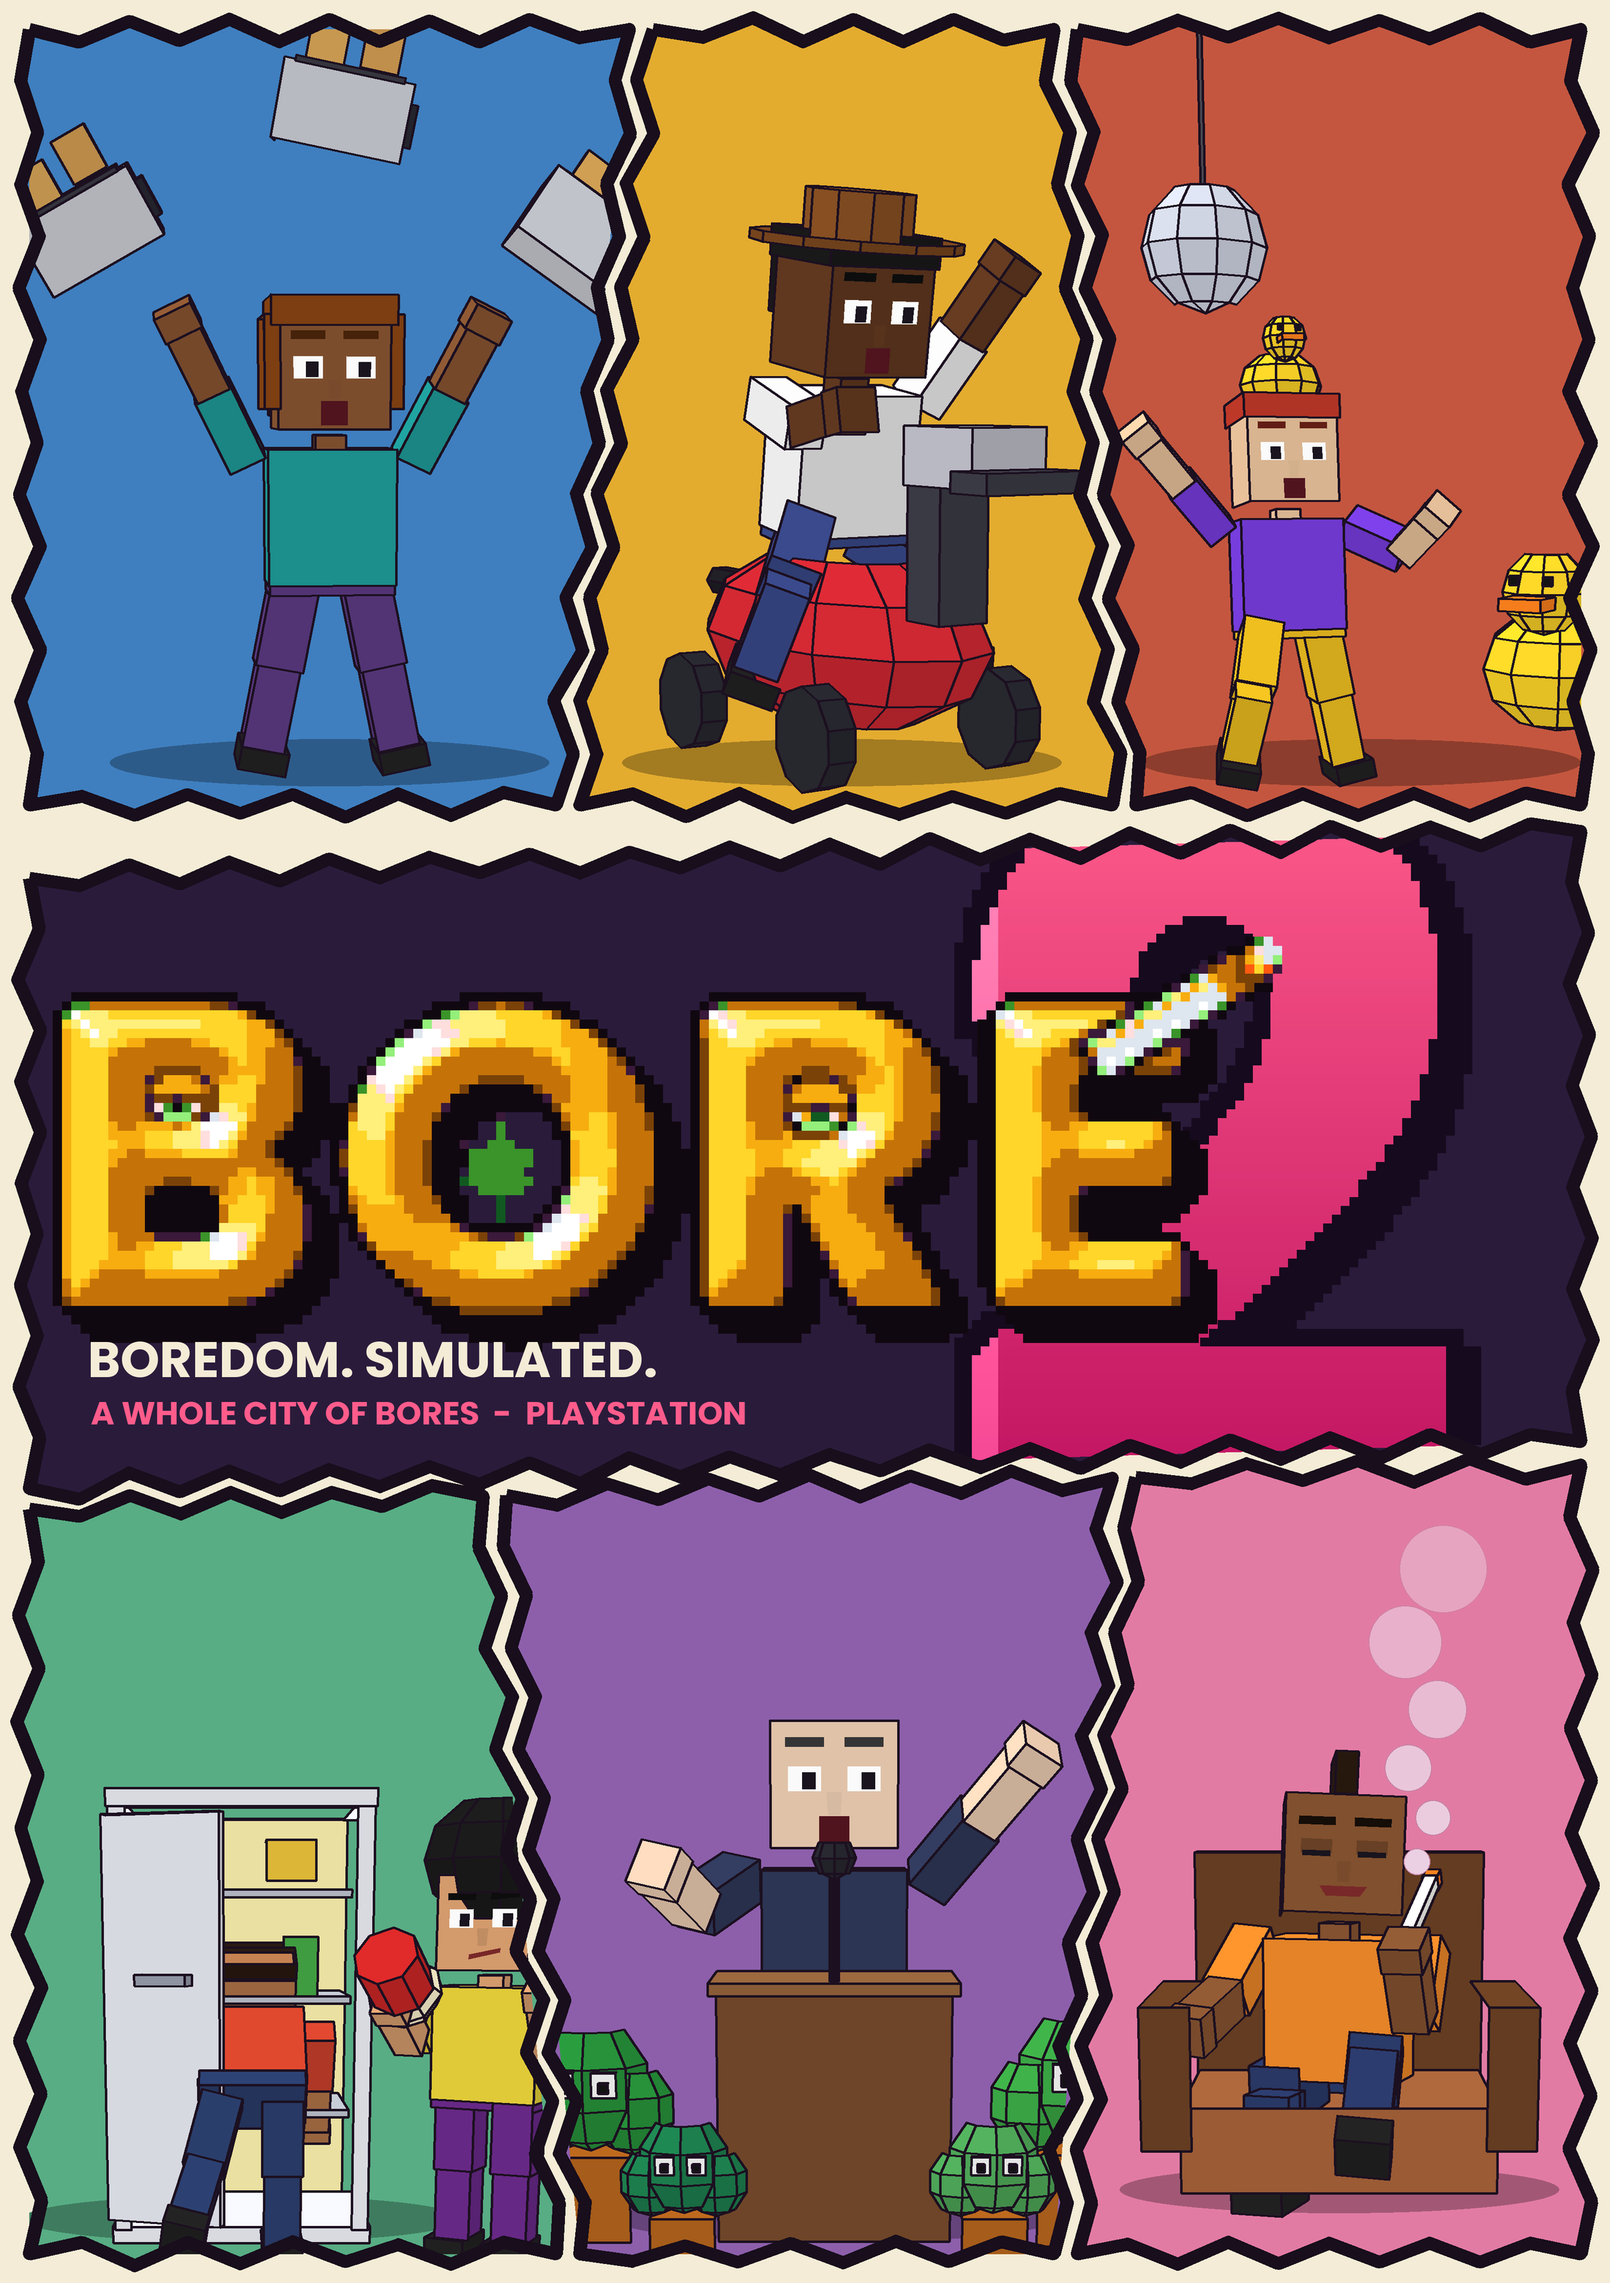
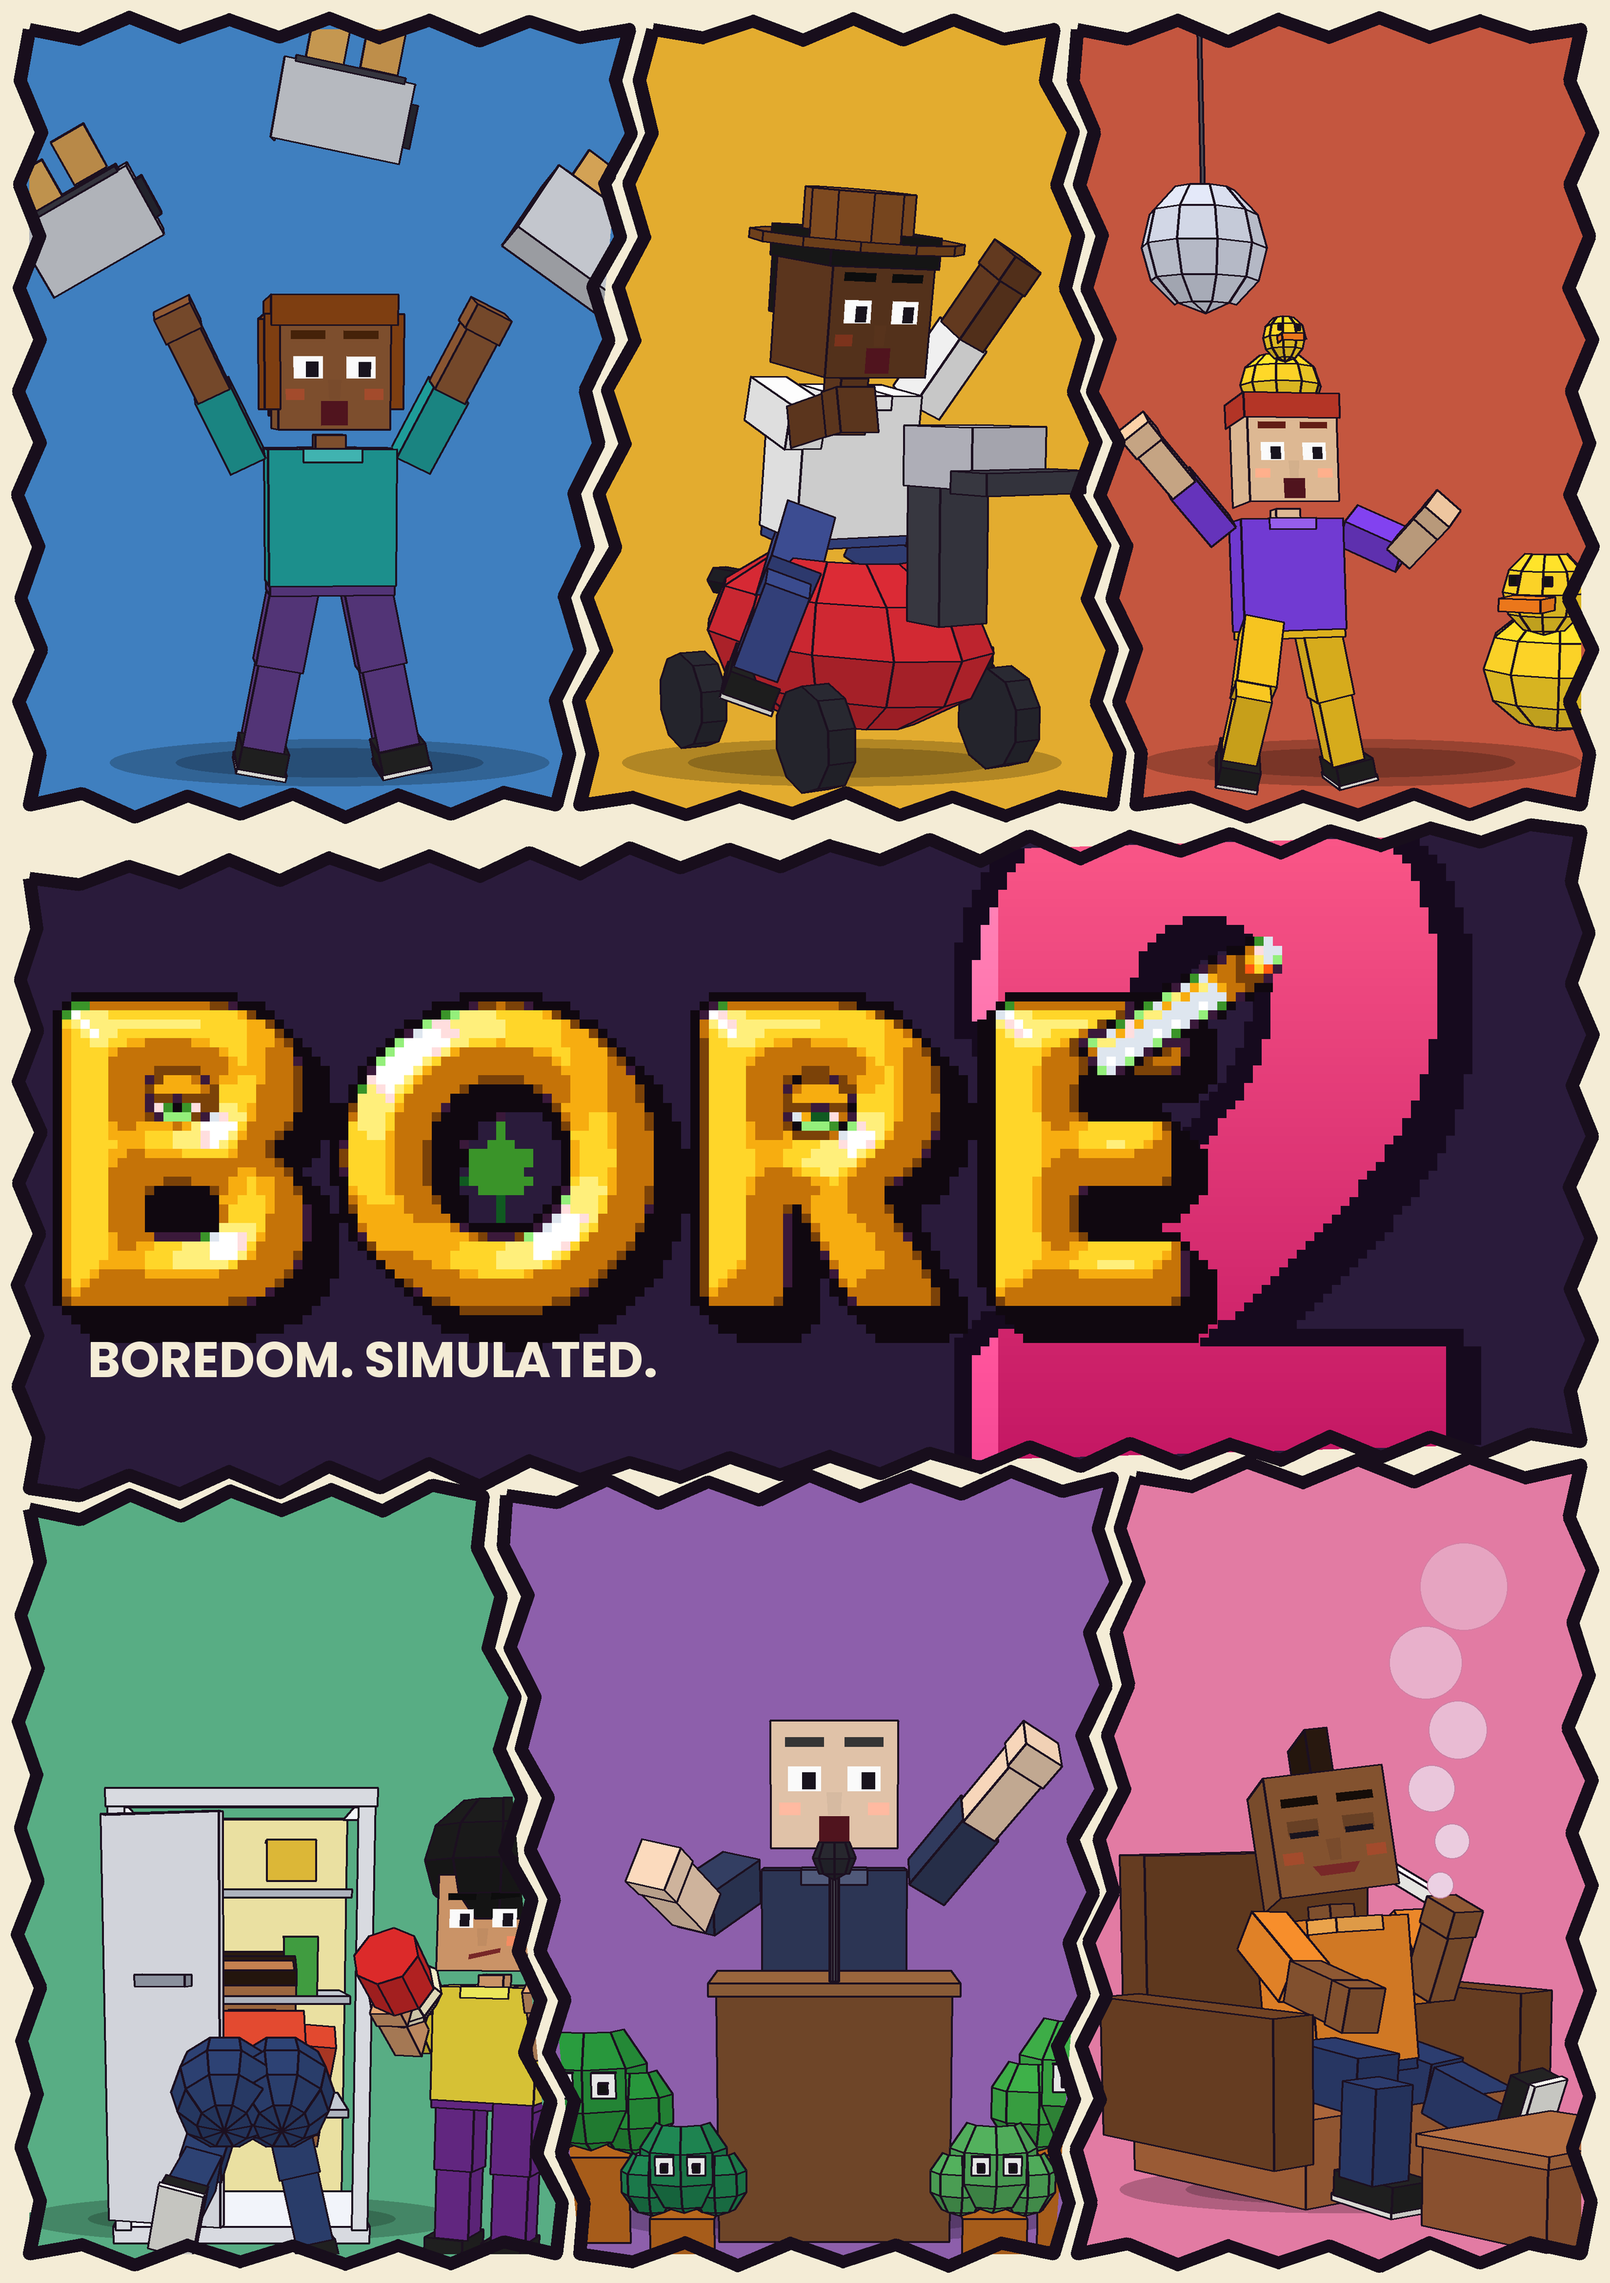
Box art: no city caption, better shading/poses, smoking pose fixed, pronounced fridge rear
Claude-Session: https://claude.ai/code/session_01HmRg38Ho1eHKsYp7LCd8R6

diff --git a/tools/boxart/scenes.py b/tools/boxart/scenes.py
@@ -43,7 +43,7 @@ def fridge():
     for yy in(1.1,2.2,3.2): sc.box((0,yy,-0.2),(2.1,0.07,1.5),(190,196,206))
     sc.box((-0.6,1.35,-0.5),(0.4,0.5,0.4),(220,60,60)); sc.box((0.6,2.5,-0.4),(0.35,0.6,0.35),(70,170,70)); sc.box((0.5,3.55,-0.5),(0.5,0.4,0.5),(240,200,60)); sc.box((-0.7,2.55,-0.5),(0.5,0.4,0.5),(90,120,220))
     sc.push(ry(1.25),(-1.25,0,0.8)); sc.box((0.0,2.0,0.55),(0.12,3.8,1.15),(226,228,236)); sc.box((-0.0,2.4,0.55),(0.2,0.1,0.5),(150,156,170)); sc.pop()
-    bore(sc,pos=(0.1,0,1.2),yaw=math.pi,skin=2,shirt='#d4452d',pants='#2b3f6e',hair='#2a1a10',style='short',face='shock',armL=(-1.5,0),armR=(-1.5,0),legR=(0.35,0.25),kneeR=0.5,lean=0.95,head=(0.3,0,0))
+    bore(sc,pos=(0.1,0,1.35),yaw=math.pi,skin=2,shirt='#d4452d',pants='#2b3f6e',hair='#2a1a10',style='short',face='shock',armL=(-1.6,0.1),armR=(-1.6,-0.1),legL=(0.15,-0.22),legR=(0.55,0.28),kneeR=0.7,lean=1.0,head=(0.3,0,0),butt=1.55)
     bucket=lambda s:(s.cyl((0,-0.1,0.2),0.3,0.5,(210,40,40),n=8),s.ell((0,0.22,0.2),(0.36,0.27,0.36),(255,246,210),nl=4,nn=8),s.box((0.12,0.42,0.22),(0.14,0.14,0.14),(255,250,225)))
     bore(sc,pos=(2.35,0,1.0),yaw=-0.5,skin=1,shirt='#e8d23a',pants='#6a2a8a',hair='#1b1b1b',style='afro',face='smirk',armL=(-0.7,0),elbL=-1.5,armR=(-0.6,0),elbR=-2.0,propL=bucket)
     return sc
@@ -62,12 +62,12 @@ def speech():
     return sc
 # ---- 6 smoking (q3)
 def smoking():
-    sc=newsc()
+    sc=newsc(); sc.push(ry(0.75))
     cush=(168,100,58); fr=(110,66,36)
     sc.box((0,0.4,-0.1),(2.2,0.6,1.9),cush); sc.box((0,1.45,-1.0),(2.2,1.9,0.3),fr); sc.box((-1.2,0.9,-0.1),(0.35,1.0,1.9),fr); sc.box((1.2,0.9,-0.1),(0.35,1.0,1.9),fr)
-    # table + ashtray
-    sc.cyl((2.4,0.55,0.9),0.12,1.1,(90,60,40),n=8); sc.cyl((2.4,1.15,0.9),0.5,0.08,(150,100,60),n=10); sc.cyl((2.4,1.24,0.9),0.24,0.08,(210,210,220),n=10)
-    sc.cyl((2.4,1.3,0.9),0.04,0.1,(130,130,130),n=6)
-    bore(sc,pos=(0,-0.45,-0.35),yaw=-0.3,skin=3,shirt='#f08a2a',pants='#2b3b6b',hair='#2a1a10',style='mohawk',face='chill',pelvis=1.2,
-         legL=(-1.5,0),kneeL=1.5,legR=(-1.9,0.25),kneeR=1.3,armR=(-0.5,0),elbR=-2.15,armL=(-0.9,-0.12),elbL=-0.35,propR=CIG,head=(-0.12,0.35,0.0))
-    return sc
+    sc.box((0.1,0.28,1.95),(1.3,0.56,1.1),(150,88,52)); sc.box((0.1,0.58,1.95),(1.36,0.08,1.16),(176,108,64))   # footstool
+    sc.cyl((2.5,0.55,0.9),0.12,1.1,(90,60,40),n=8); sc.cyl((2.5,1.15,0.9),0.5,0.08,(150,100,60),n=10); sc.cyl((2.5,1.24,0.9),0.24,0.08,(210,210,220),n=10)
+    sc.cyl((2.5,1.3,0.9),0.04,0.1,(130,130,130),n=6)
+    bore(sc,pos=(0,-0.3,0.05),yaw=0.0,skin=3,shirt='#f08a2a',pants='#2b3b6b',hair='#2a1a10',style='mohawk',face='chill',pelvis=1.2,
+         legL=(-1.5,-0.05),kneeL=1.55,legR=(-1.36,0.12),kneeR=0.12,armR=(-0.5,0),elbR=-2.15,armL=(-0.9,-0.12),elbL=-0.35,propR=CIG,head=(-0.1,-0.55,0.0),lean=-0.12)
+    sc.pop(); return sc

diff --git a/tools/boxart/bore.py b/tools/boxart/bore.py
@@ -1,7 +1,7 @@
 from eng import *
 SKIN=[hexc(x) for x in('f0c8a0','dba070','b97a4c','8a5632','633a20','f4d4b8')]
 def bore(sc,pos=(0,0,0),yaw=0.0,skin=1,shirt='#c0392b',pants='#2c3e6b',hair='#2a1a10',style='short',face='smile',
-         armL=(0,0),armR=(0,0),elbL=0,elbR=0,legL=(0,0),legR=(0,0),kneeL=0,kneeR=0,lean=0.0,head=(0,0,0),pelvis=1.3,scale=1.0,shoe='#222222',sit=False,propL=None,propR=None,headprop=None):
+         armL=(0,0),armR=(0,0),elbL=0,elbR=0,legL=(0,0),legR=(0,0),kneeL=0,kneeR=0,lean=0.0,head=(0,0,0),pelvis=1.3,scale=1.0,shoe='#222222',sit=False,propL=None,propR=None,headprop=None,butt=0.0):
     sk=SKIN[skin]; sh=hexc(shirt); pa=hexc(pants); ha=hexc(hair); so=hexc(shoe)
     sc.push(ry(yaw)@np.eye(3),pos); sc.push(None,(0,0,0))
     # legs
@@ -9,12 +9,16 @@ def bore(sc,pos=(0,0,0),yaw=0.0,skin=1,shirt='#c0392b',pants='#2c3e6b',hair='#2a
         sc.push(rx(a)@rz(zz),(side*0.28,pelvis,0))
         sc.box((0,-0.33,0),(0.38,0.7,0.4),pa)
         sc.push(rx(kn),(0,-0.68,0))
-        sc.box((0,-0.33,0),(0.34,0.68,0.36),pa); sc.box((0,-0.72,0.1),(0.38,0.18,0.62),so)
+        sc.box((0,-0.33,0),(0.34,0.68,0.36),pa); sc.box((0,-0.72,0.1),(0.38,0.18,0.62),so); sc.box((0,-0.82,0.1),(0.4,0.05,0.64),(236,236,230))
         sc.pop(); sc.pop()
     # torso
     sc.push(rx(lean),(0,pelvis,0))
     sc.box((0,0.52,0),(1.0,1.05,0.56),sh)
+    sc.box((0,1.0,0.0),(0.46,0.1,0.58),tuple(min(255,c+40) for c in sh))
     sc.box((0,0.02,0),(0.98,0.2,0.54),pa)
+    if butt:
+        sc.box((0,0.16,0),(1.02,0.14,0.58),(238,238,244)); sc.box((0,0.16,0),(1.03,0.05,0.59),(215,60,80))
+        for sx in(-1,1): sc.ell((sx*0.25,-0.18,-0.27),(0.31*butt,0.34*butt,0.32*butt),pa,nl=6,nn=10)
     # arms
     for side,(a,zz),el in((-1,armL,elbL),(1,armR,elbR)):
         sc.push(rx(a)@rz(zz),(side*0.66,0.98,0))
@@ -51,6 +55,7 @@ def bore(sc,pos=(0,0,0),yaw=0.0,skin=1,shirt='#c0392b',pants='#2c3e6b',hair='#2a
     else:
         sc.decal([(-0.14,m+0.03,fz),(0.14,m+0.03,fz),(0.14,m-0.02,fz),(-0.14,m-0.02,fz)],(120,50,50))
     sc.decal([(-0.05,hy-0.05,fz),(0.05,hy-0.05,fz),(0.04,hy-0.2,fz),(-0.04,hy-0.2,fz)],tuple(int(c*0.88) for c in sk))
+    for x in(-0.3,0.3): sc.decal([(x-0.07,hy-0.12,fz),(x+0.07,hy-0.12,fz),(x+0.07,hy-0.2,fz),(x-0.07,hy-0.2,fz)],tuple(min(255,int(c*1.0+25)) if i==0 else int(c*0.88) for i,c in enumerate(sk)))
     # hair
     if style=='short': sc.box((0,0.88,-0.02),(0.92,0.22,0.86),ha); sc.box((0,0.62,-0.36),(0.9,0.5,0.16),ha)
     elif style=='bob': sc.box((0,0.88,-0.02),(0.96,0.22,0.9),ha); sc.box((-0.47,0.5,0),(0.12,0.7,0.8),ha); sc.box((0.47,0.5,0),(0.12,0.7,0.8),ha); sc.box((0,0.5,-0.4),(0.9,0.8,0.14),ha)

diff --git a/tools/boxart/poster.py b/tools/boxart/poster.py
@@ -36,11 +36,11 @@ scenes=[('p1',toasters,(225,525,84)),('p2',vacuum,(575,525,88)),('p3',duck,(930,
 def inset(poly,m=3):
     cx=sum(x for x,_ in poly)/len(poly); cy=sum(y for _,y in poly)/len(poly)
     return [(x+(cx-x)*0.0,y) for x,y in poly]
-SMOKE=[(968,1272,9,200),(979,1242,12,190),(962,1208,16,175),(982,1168,20,150),(960,1122,25,125),(986,1072,30,95)]
+SMOKE=[(984,1288,9,200),(992,1258,12,190),(978,1222,16,175),(996,1182,20,150),(974,1136,25,125),(1000,1084,30,95)]
 for k,fn,(ox,oy,s) in scenes:
     layer=Image.new('RGBA',im.size,(0,0,0,0)); ld=ImageDraw.Draw(layer)
-    ld.ellipse([(ox-150)*SS,(oy-20)*SS,(ox+150)*SS,(oy+12)*SS],fill=shade(COL[k],0.72)+(255,))
-    sc=fn(); sc.render(ld,ox*SS,(oy-8)*SS,s*SS,ow=3*SS//2+1)
+    ld.ellipse([(ox-150)*SS,(oy-20)*SS,(ox+150)*SS,(oy+12)*SS],fill=shade(COL[k],0.78)+(255,)); ld.ellipse([(ox-105)*SS,(oy-14)*SS,(ox+105)*SS,(oy+6)*SS],fill=shade(COL[k],0.62)+(255,))
+    sc=fn(); sc.render(ld,ox*SS,(oy-8)*SS,s*SS,ow=SS+1)
     if k=='q3':
         for x,y,r,a_ in SMOKE: ld.ellipse([(x-r)*SS,(y-r)*SS,(x+r)*SS,(y+r)*SS],fill=(238,232,244,a_),outline=(150,140,165,a_//2),width=2)
     mask=Image.new('L',im.size,0); ImageDraw.Draw(mask).polygon(S2(P[k]),fill=255)
@@ -78,8 +78,6 @@ layer.putalpha(ImageChops.multiply(layer.getchannel('A'),mask)); im.paste(layer,
 jp=S2(jag(P['logo'],seed=hash('logo')%97)); d.line(jp+[jp[0]],fill=INK,width=9*SS,joint='curve')
 tf=ImageFont.truetype('/usr/share/fonts/truetype/google-fonts/Poppins-Bold.ttf',34*SS)
 d.text((60*SS,905*SS),"BOREDOM. SIMULATED.",font=tf,fill=(244,236,214))
-tf2=ImageFont.truetype('/usr/share/fonts/truetype/google-fonts/Poppins-Bold.ttf',22*SS)
-d.text((62*SS,950*SS),"A WHOLE CITY OF BORES  -  PLAYSTATION",font=tf2,fill=(255,92,139))
 im=im.resize((W*2,H*2),Image.LANCZOS)
 im.save('/tmp/art/stage1.png')
 print('ok')

diff --git a/tools/boxart/eng.py b/tools/boxart/eng.py
@@ -42,6 +42,7 @@ class Scene:
     def decal(s,quad,color,bias=0.15):   # flat paint on a surface, no outline, drawn on top
         c=np.mean(np.array(quad,float),axis=0); s.add([quad],color,c,outline=False,bias=bias)
     def render(s,d,ox,oy,scale,light=(-0.45,0.75,0.5),D=14.0,out=(28,16,32),ow=2):
+        L2=np.array((0.6,0.1,0.5)); L2=L2/np.linalg.norm(L2)
         L=np.array(light); L/=np.linalg.norm(L); items=[]
         for v,col,cen,outl,bias in s.faces:
             n=np.cross(v[1]-v[0],v[2]-v[0]); ln=np.linalg.norm(n)
@@ -50,8 +51,8 @@ class Scene:
             if outl:
                 if np.dot(n,fc-cen)<0: n=-n
                 if n[2]<=0.02: continue
-            sh=0.5+0.5*max(0,float(np.dot(n,L)))
-            items.append((fc[2]+bias, v, tuple(int(min(255,c*(0.55+0.55*sh))) for c in col) if outl else col, outl))
+            sh=0.42+0.5*max(0,float(np.dot(n,L)))+0.18*max(0,float(np.dot(n,L2)))
+            items.append((fc[2]+bias, v, tuple(int(min(255,c*(0.5+0.6*sh))) for c in col) if outl else col, outl))
         items.sort(key=lambda t:t[0])
         for z,v,col,outl in items:
             pts=[(ox+scale*p[0]*D/(D-p[2]), oy-scale*p[1]*D/(D-p[2])) for p in v]
